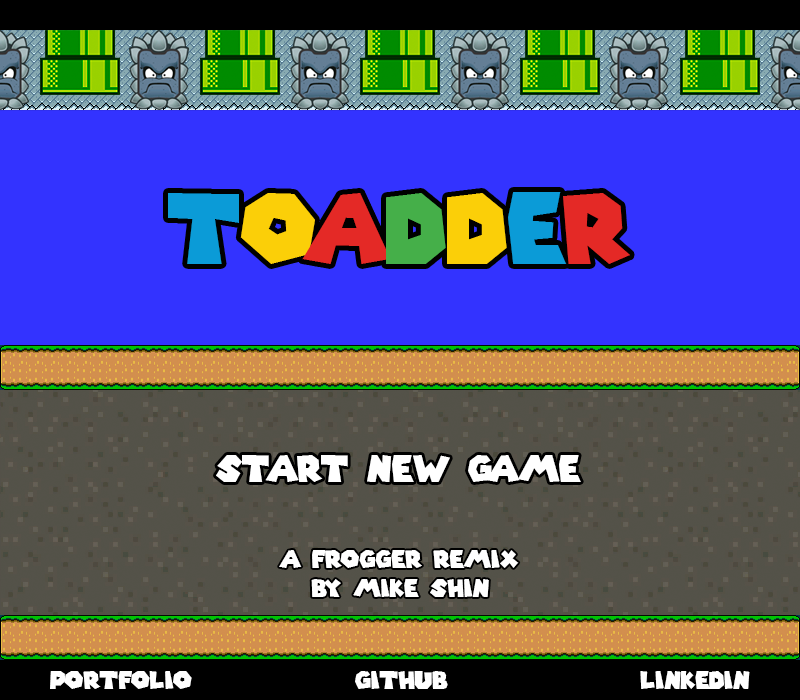
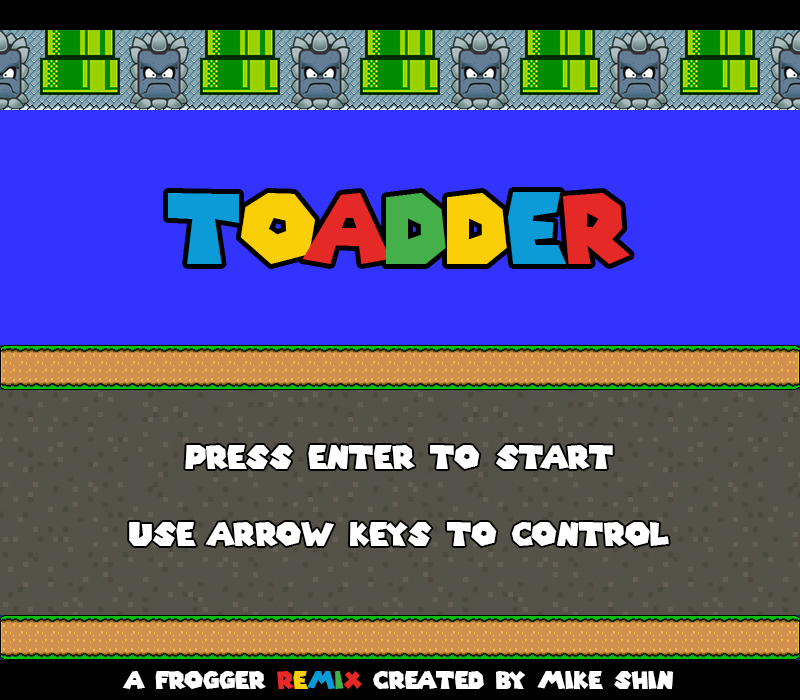
added hrefs for external links, changed game start entry

Changed region(s): [[0.1562, 0.72, 0.8438, 0.87], [0.2188, 0.63, 0.7812, 0.69], [0.0625, 0.96, 0.9375, 0.99]]

diff --git a/lib/bundle.js b/lib/bundle.js
@@ -47,14 +47,6 @@
 	var Game = __webpack_require__(1);
 	var GameView = __webpack_require__(9);
 	
-	// var Toadder = function () {
-	//   // this.LINKS = [];
-	//   // this.startNewGame = false;
-	// };
-	//
-	// Toadder.LINKS = [];
-	// Toadder.STARTGAME = false;
-	
 	var canvasEl = document.getElementsByTagName("canvas")[0],
 	    canvasElLeft = canvasEl.offsetLeft,
 	    canvasElTop = canvasEl.offsetTop,
@@ -75,47 +67,39 @@
 	    ctx.drawImage(startScreen, 0, 0, canvasEl.width, canvasEl.height);
 	  };
 	
-	  canvasEl.addEventListener("click", startGame, false);
-	  canvasEl.addEventListener("click", clickLink, false);
+	  document.addEventListener("keypress", startGame, false);
+	  // canvasEl.addEventListener("click", clickLink, false);
 	});
 	
 	function startGame(event) {
 	  var game = new Game();
-	  var startButton = { yPos: 445, xPos: 200, xDim: 400, yDim: 60 };
 	
-	  var x = event.pageX - canvasElLeft,
-	      y = event.pageY - canvasElTop;
-	
-	  if (y > startButton.yPos &&
-	      y < startButton.yPos + startButton.yDim &&
-	      x > startButton.xPos &&
-	      x < startButton.xPos + startButton.xDim &&
-	      !startNewGame) {
-	        new GameView(game, ctx).start();
-	      }
+	  if (event.keyCode == 13 && !startNewGame) {
+	    new GameView(game, ctx).start();
+	  }
 	  startNewGame = true;
 	}
 	
-	function clickLink(event) {
-	  var x = event.pageX - canvasElLeft,
-	      y = event.pageY - canvasElTop;
+	// function clickLink(event) {
+	//   var x = event.pageX - canvasElLeft,
+	//       y = event.pageY - canvasElTop;
+	//
+	//   links.forEach(function(link){
+	//
+	//     if (y > link.yPos &&
+	//         y < link.yPos + link.yDim &&
+	//         x > link.xPos &&
+	//         x < link.xPos + link.xDim) {
+	//           window.location = link.url;
+	//         }
+	//   });
+	// }
 	
-	  links.forEach(function(link){
-	
-	    if (y > link.yPos &&
-	        y < link.yPos + link.yDim &&
-	        x > link.xPos &&
-	        x < link.xPos + link.xDim) {
-	          window.location = link.url;
-	        }
-	  });
-	}
-	
-	links.push(
-	  { url: "http://michaelkshin.com", xPos: 50, yPos: 670, xDim: 145, yDim: 20 },
-	  { url: "http://github.com/whomikeshin", xPos: 355, yPos: 670, xDim: 95, yDim: 20 },
-	  { url: "https://www.linkedin.com/in/mikekshin", xPos: 640, yPos: 670, xDim: 110, yDim: 20 }
-	);
+	// links.push(
+	//   { url: "http://michaelkshin.com", xPos: 50, yPos: 670, xDim: 145, yDim: 20 },
+	//   { url: "http://github.com/whomikeshin", xPos: 355, yPos: 670, xDim: 95, yDim: 20 },
+	//   { url: "https://www.linkedin.com/in/mikekshin", xPos: 640, yPos: 670, xDim: 110, yDim: 20 }
+	// );
 
 
 /***/ },
@@ -154,6 +138,7 @@
 	Game.LEVEL = Game.LEVEL || 1;
 	Game.CRASH = Game.CRASH || 0;
 	Game.DEADTOAD = Game.DEADTOAD || [];
+	Game.GAME_OVER = false;
 	
 	Game.prototype.add = function (object) {
 	  if (object.type === "Bullet") {
@@ -413,6 +398,7 @@
 	
 	Game.prototype.gameOver = function (ctx) {
 	  var game = this;
+	  Game.GAME_OVER = true;
 	
 	  ctx.clearRect(0, 0, Game.DIM_X, Game.DIM_Y);
 	
@@ -425,12 +411,13 @@
 	  Toad.JUMP_SCORE = 0;
 	
 	  document.addEventListener("keypress", function(event) {
-	    if (event.keyCode == 32) {
+	    if (event.keyCode == 32 && Game.GAME_OVER) {
 	      Game.LIVES = 3;
 	      Game.LEVEL = 1;
 	      Game.SCORE = 0;
 	      Game.DEADTOAD = [];
 	      game.resetGame();
+	      Game.GAME_OVER = false;
 	    }
 	  }, false);
 	};

diff --git a/lib/toadder.js b/lib/toadder.js
@@ -1,14 +1,6 @@
 var Game = require("./game");
 var GameView = require("./gameView");
 
-// var Toadder = function () {
-//   // this.LINKS = [];
-//   // this.startNewGame = false;
-// };
-//
-// Toadder.LINKS = [];
-// Toadder.STARTGAME = false;
-
 var canvasEl = document.getElementsByTagName("canvas")[0],
     canvasElLeft = canvasEl.offsetLeft,
     canvasElTop = canvasEl.offsetTop,
@@ -29,44 +21,36 @@ document.addEventListener("DOMContentLoaded", function(){
     ctx.drawImage(startScreen, 0, 0, canvasEl.width, canvasEl.height);
   };
 
-  canvasEl.addEventListener("click", startGame, false);
-  canvasEl.addEventListener("click", clickLink, false);
+  document.addEventListener("keypress", startGame, false);
+  // canvasEl.addEventListener("click", clickLink, false);
 });
 
 function startGame(event) {
   var game = new Game();
-  var startButton = { yPos: 445, xPos: 200, xDim: 400, yDim: 60 };
 
-  var x = event.pageX - canvasElLeft,
-      y = event.pageY - canvasElTop;
-
-  if (y > startButton.yPos &&
-      y < startButton.yPos + startButton.yDim &&
-      x > startButton.xPos &&
-      x < startButton.xPos + startButton.xDim &&
-      !startNewGame) {
-        new GameView(game, ctx).start();
-      }
+  if (event.keyCode == 13 && !startNewGame) {
+    new GameView(game, ctx).start();
+  }
   startNewGame = true;
 }
 
-function clickLink(event) {
-  var x = event.pageX - canvasElLeft,
-      y = event.pageY - canvasElTop;
+// function clickLink(event) {
+//   var x = event.pageX - canvasElLeft,
+//       y = event.pageY - canvasElTop;
+//
+//   links.forEach(function(link){
+//
+//     if (y > link.yPos &&
+//         y < link.yPos + link.yDim &&
+//         x > link.xPos &&
+//         x < link.xPos + link.xDim) {
+//           window.location = link.url;
+//         }
+//   });
+// }
 
-  links.forEach(function(link){
-
-    if (y > link.yPos &&
-        y < link.yPos + link.yDim &&
-        x > link.xPos &&
-        x < link.xPos + link.xDim) {
-          window.location = link.url;
-        }
-  });
-}
-
-links.push(
-  { url: "http://michaelkshin.com", xPos: 50, yPos: 670, xDim: 145, yDim: 20 },
-  { url: "http://github.com/whomikeshin", xPos: 355, yPos: 670, xDim: 95, yDim: 20 },
-  { url: "https://www.linkedin.com/in/mikekshin", xPos: 640, yPos: 670, xDim: 110, yDim: 20 }
-);
+// links.push(
+//   { url: "http://michaelkshin.com", xPos: 50, yPos: 670, xDim: 145, yDim: 20 },
+//   { url: "http://github.com/whomikeshin", xPos: 355, yPos: 670, xDim: 95, yDim: 20 },
+//   { url: "https://www.linkedin.com/in/mikekshin", xPos: 640, yPos: 670, xDim: 110, yDim: 20 }
+// );

diff --git a/lib/game.js b/lib/game.js
@@ -30,6 +30,7 @@ Game.HIGH_SCORE = Game.HIGH_SCORE || 0;
 Game.LEVEL = Game.LEVEL || 1;
 Game.CRASH = Game.CRASH || 0;
 Game.DEADTOAD = Game.DEADTOAD || [];
+Game.GAME_OVER = false;
 
 Game.prototype.add = function (object) {
   if (object.type === "Bullet") {
@@ -289,6 +290,7 @@ Game.prototype.drawTimer = function (ctx) {
 
 Game.prototype.gameOver = function (ctx) {
   var game = this;
+  Game.GAME_OVER = true;
 
   ctx.clearRect(0, 0, Game.DIM_X, Game.DIM_Y);
 
@@ -301,12 +303,13 @@ Game.prototype.gameOver = function (ctx) {
   Toad.JUMP_SCORE = 0;
 
   document.addEventListener("keypress", function(event) {
-    if (event.keyCode == 32) {
+    if (event.keyCode == 32 && Game.GAME_OVER) {
       Game.LIVES = 3;
       Game.LEVEL = 1;
       Game.SCORE = 0;
       Game.DEADTOAD = [];
       game.resetGame();
+      Game.GAME_OVER = false;
     }
   }, false);
 };

diff --git a/index.html b/index.html
@@ -7,6 +7,11 @@
   <body>
 
     <canvas></canvas>
+    <footer>
+      <a href="http://michaelkshin.com" target="_blank">Portfolio</a>
+      <a href="http://github.com/whomikeshin" target="_blank">Github</a>
+      <a href="https://www.linkedin.com/in/mikekshin" target="_blank">LinkedIn</a>
+    </footer>
 
     <script type="application/javascript" src="vendor/keymaster.js"></script>
     <script type="application/javascript" src="lib/bundle.js"></script>

diff --git a/stylesheets/toadder.css b/stylesheets/toadder.css
@@ -1,7 +1,30 @@
+body {
+  background-color: #000;
+  font-family: sans-serif;
+  font-size: 26px;
+}
+
 canvas {
   margin: 0 auto;
   display: block;
   width: 800px;
   border-left: 2px solid #000;
   border-right: 2px solid #000;
+}
+
+footer {
+  padding: 5px 0;
+  width: 100%;
+  text-align: center;
+}
+
+footer > a {
+  text-decoration: none;
+  color: #fff;
+  padding: 0 20px;
+  margin: 0 100px;
+}
+
+footer > a:hover {
+  color: #00C200;
 }
